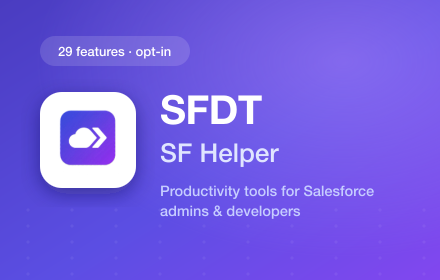
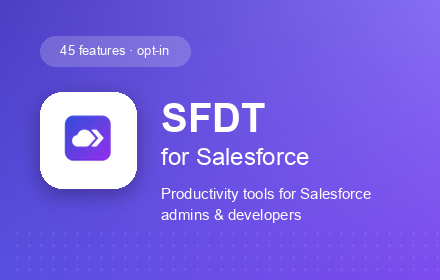
assets(ext): generate the promo tile, plan the screenshot recapture
The promo tile bakes the item name and the feature count into pixels, so
both rot silently and no dashboard edit can reach them. The committed
0.10.0 tile read "SF Helper" and "29 features" while the item had been
renamed to "SFDT for Salesforce" and grown to 45 — wrong on both counts,
and about to be uploaded that way.

So it is generated rather than maintained. make-promo-tile.py reads the
count from generated/chrome-features.json and the name from listing.md's
"## Item name" — never typed — and composites the runtime icon, so the
tile tracks a rename, a new feature, or an icon change on the next run.
--check fails when the committed PNG has drifted.

The art is a measured reproduction, not a redraw: the background is a
bilinear blend of four least-squares-fitted corner colours (rmse 4.7,
against 19.7 for the naive diagonal ramp it replaces) and the drop shadow
was fitted to the original's brightness falloff, so rebuilds do not drift
away from the 0.10.0 look.

README also replaces the featured-5 list, which had gone stale in a way
that undersold the product: slot 1 showed a Workspace nav from when there
were 13 tools, against today's 45. The replacement names five specific
captures rather than asking for a full recapture — only five are ever
displayed, so reshooting the fifteen-frame pool is wasted work. Trace
Flags is left uncovered on purpose and said so.

Scratch-org-only capture is stated as a rule with its reason: final_15
[…]

diff --git a/extension/store-assets/make-promo-tile.py b/extension/store-assets/make-promo-tile.py
@@ -1,0 +1,191 @@
+#!/usr/bin/env python3
+"""Regenerate promo-small-440x280.png, the Chrome Web Store small promo tile.
+
+The tile bakes the item name and the feature count into pixels, so both go stale
+silently — a dashboard edit cannot fix them. This script rebuilds it from the
+runtime icon plus two inputs that are read, never typed:
+
+  * the feature count, from generated/chrome-features.json
+  * the item name, from extension/listing.md's "## Item name" section
+
+Geometry was measured off the 0.10.0-era tile so the regenerated art keeps the
+same layout rather than drifting each time it is rebuilt.
+
+Usage:  python3 make-promo-tile.py [--check]
+        --check verifies the committed PNG matches what this script produces
+                (byte-identical), and exits non-zero if it has drifted.
+
+CWS requires the small promo tile to be 440x280, 24-bit RGB with no alpha.
+"""
+
+import argparse
+import io
+import json
+import pathlib
+import re
+import sys
+
+from PIL import Image, ImageDraw, ImageFilter, ImageFont
+
+HERE = pathlib.Path(__file__).resolve().parent
+EXT = HERE.parent
+REPO = EXT.parent
+
+OUT = HERE / "promo-small-440x280.png"
+ICON = EXT / "public" / "icon" / "128.png"
+CATALOG = REPO / "generated" / "chrome-features.json"
+LISTING = EXT / "listing.md"
+
+W, H = 440, 280
+
+# The background is a bilinear blend of four corner colours, not a simple
+# diagonal ramp. These were least-squares fitted to the 0.10.0 tile's clean
+# background pixels (rmse 4.7; a naive diagonal ramp scored 19.7).
+GRAD_TL, GRAD_TR = (0x4D, 0x3E, 0xC3), (0x85, 0x6E, 0xF3)
+GRAD_BL, GRAD_BR = (0x58, 0x4F, 0xE1), (0x7C, 0x4B, 0xEE)
+
+# Soft drop shadow under the white tile, profiled off the original: ~0.81
+# brightness right at the lower edge, back to 1.0 by ~18px below.
+SHADOW_OFFSET, SHADOW_BLUR, SHADOW_ALPHA = (0, 6), 10, 80
+
+# Measured off the previous tile — keep these stable so rebuilds don't drift.
+PILL = (40, 36, 190, 66)  # x0, y0, x1, y1 — fully rounded
+TILE_XY, TILE_WH, TILE_R = (40, 92), 96, 22  # white rounded square
+ICON_XY, ICON_WH = (58, 110), 60
+TEXT_X = 161
+Y_WORDMARK, Y_NAME, Y_TAG1, Y_TAG2 = 95, 143, 185, 206
+
+FONTS_BOLD = [
+    "/System/Library/Fonts/Supplemental/Arial Bold.ttf",
+    "/System/Library/Fonts/Supplemental/Helvetica.ttc",
+    "/Library/Fonts/Arial Unicode.ttf",
+]
+FONTS_REG = [
+    "/System/Library/Fonts/Supplemental/Arial.ttf",
+    "/System/Library/Fonts/Helvetica.ttc",
+    "/Library/Fonts/Arial Unicode.ttf",
+]
+
+
+def font(paths, size):
+    for p in paths:
+        try:
+            return ImageFont.truetype(p, size)
+        except OSError:
+            continue
+    raise SystemExit(f"no usable font among {paths}")
+
+
+def feature_count() -> int:
+    data = json.loads(CATALOG.read_text())
+    feats = data["features"] if isinstance(data, dict) and "features" in data else data
+    return len(feats)
+
+
+def item_name() -> str:
+    m = re.search(r"^## Item name\n(.+?)$", LISTING.read_text(), re.M)
+    if not m:
+        raise SystemExit("could not read '## Item name' from listing.md")
+    return m.group(1).strip()
+
+
+def gradient() -> Image.Image:
+    """Bilinear blend of the four fitted corner colours."""
+    img = Image.new("RGB", (W, H))
+    px = img.load()
+    for y in range(H):
+        v = y / (H - 1)
+        top = [a + (b - a) * v for a, b in zip(GRAD_TL, GRAD_BL)]
+        bot = [a + (b - a) * v for a, b in zip(GRAD_TR, GRAD_BR)]
+        for x in range(W):
+            u = x / (W - 1)
+            px[x, y] = tuple(round(a + (b - a) * u) for a, b in zip(top, bot))
+    return img
+
+
+def rounded(size, radius, fill):
+    """An RGBA layer holding one rounded rectangle, for alpha compositing."""
+    layer = Image.new("RGBA", (W, H), (0, 0, 0, 0))
+    ImageDraw.Draw(layer).rounded_rectangle(size, radius=radius, fill=fill)
+    return layer
+
+
+def build() -> Image.Image:
+    name, count = item_name(), feature_count()
+    # "SFDT for Salesforce" renders as a bold wordmark plus a lighter qualifier.
+    wordmark, _, qualifier = name.partition(" ")
+
+    img = gradient()
+
+    # Dot texture along the lower band — subtle, matches the original art.
+    dots = Image.new("RGBA", (W, H), (0, 0, 0, 0))
+    d = ImageDraw.Draw(dots)
+    for gy in range(232, H, 12):
+        for gx in range(16, W, 12):
+            d.ellipse([gx, gy, gx + 2, gy + 2], fill=(255, 255, 255, 26))
+    img = Image.alpha_composite(img.convert("RGBA"), dots)
+
+    img = Image.alpha_composite(img, rounded(PILL, (PILL[3] - PILL[1]) // 2,
+                                             (255, 255, 255, 48)))
+    tx, ty = TILE_XY
+    box = [tx, ty, tx + TILE_WH, ty + TILE_WH]
+
+    ox, oy = SHADOW_OFFSET
+    shadow = rounded([box[0] + ox, box[1] + oy, box[2] + ox, box[3] + oy],
+                     TILE_R, (0, 0, 0, SHADOW_ALPHA))
+    img = Image.alpha_composite(img, shadow.filter(
+        ImageFilter.GaussianBlur(SHADOW_BLUR)))
+
+    img = Image.alpha_composite(img, rounded(box, TILE_R, (255, 255, 255, 255)))
+
+    icon = Image.open(ICON).convert("RGBA").resize(
+        (ICON_WH, ICON_WH), Image.LANCZOS
+    )
+    img.alpha_composite(icon, ICON_XY)
+
+    draw = ImageDraw.Draw(img)
+    pill_text = f"{count} features · opt-in"
+    f_pill = font(FONTS_REG, 13)
+    pw = draw.textlength(pill_text, font=f_pill)
+    draw.text(((PILL[0] + PILL[2]) / 2 - pw / 2, PILL[1] + 7), pill_text,
+              font=f_pill, fill=(255, 255, 255, 235))
+
+    draw.text((TEXT_X, Y_WORDMARK), wordmark, font=font(FONTS_BOLD, 40),
+              fill=(255, 255, 255, 255))
+    draw.text((TEXT_X, Y_NAME), qualifier, font=font(FONTS_REG, 24),
+              fill=(255, 255, 255, 224))
+    f_tag = font(FONTS_REG, 15)
+    draw.text((TEXT_X, Y_TAG1), "Productivity tools for Salesforce",
+              font=f_tag, fill=(255, 255, 255, 200))
+    draw.text((TEXT_X, Y_TAG2), "admins & developers",
+              font=f_tag, fill=(255, 255, 255, 200))
+
+    return img.convert("RGB")  # CWS: 24-bit RGB, no alpha
+
+
+def main():
+    ap = argparse.ArgumentParser()
+    ap.add_argument("--check", action="store_true",
+                    help="fail if the committed PNG differs from a fresh build")
+    args = ap.parse_args()
+
+    img = build()
+    buf = io.BytesIO()
+    img.save(buf, "PNG", optimize=True)
+    fresh = buf.getvalue()
+
+    if args.check:
+        if not OUT.exists():
+            sys.exit(f"{OUT.name} is missing")
+        if OUT.read_bytes() != fresh:
+            sys.exit(f"{OUT.name} is stale — re-run: python3 {pathlib.Path(__file__).name}")
+        print(f"{OUT.name} is current ({item_name()}, {feature_count()} features)")
+        return
+
+    OUT.write_bytes(fresh)
+    print(f"wrote {OUT.relative_to(REPO)} — {img.size[0]}x{img.size[1]} {img.mode}, "
+          f"{len(fresh):,} bytes ({item_name()}, {feature_count()} features)")
+
+
+if __name__ == "__main__":
+    main()
